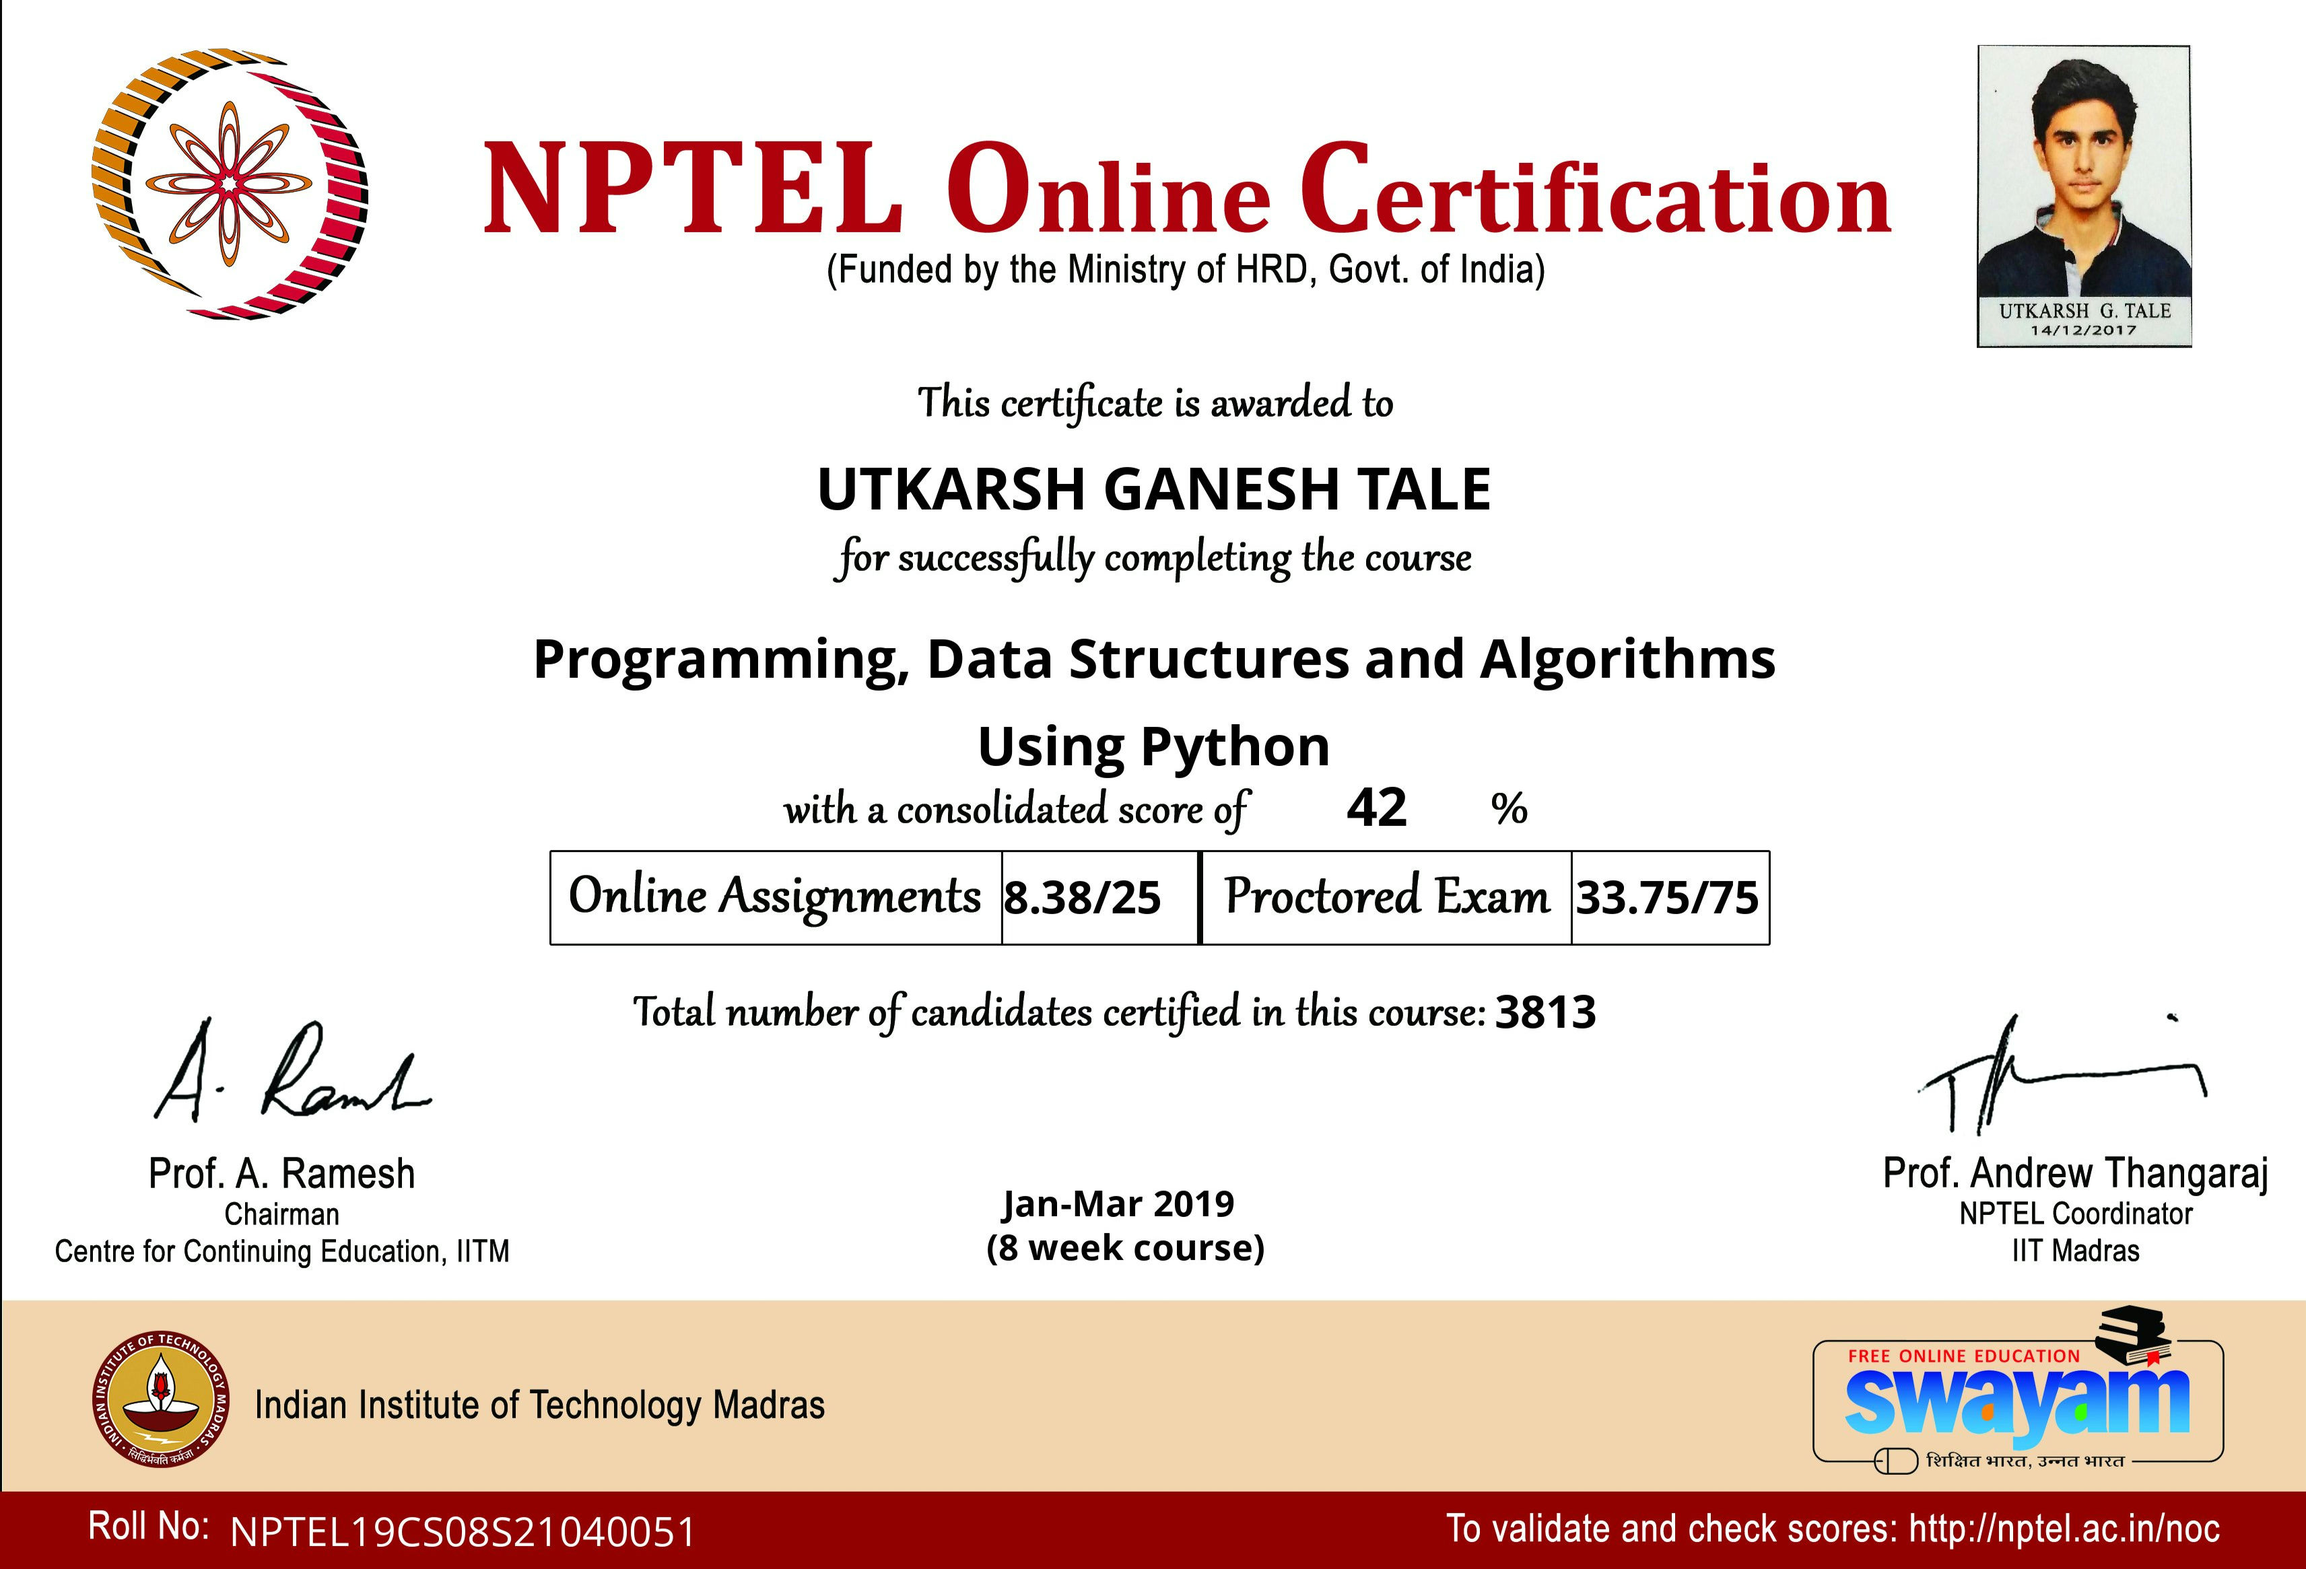
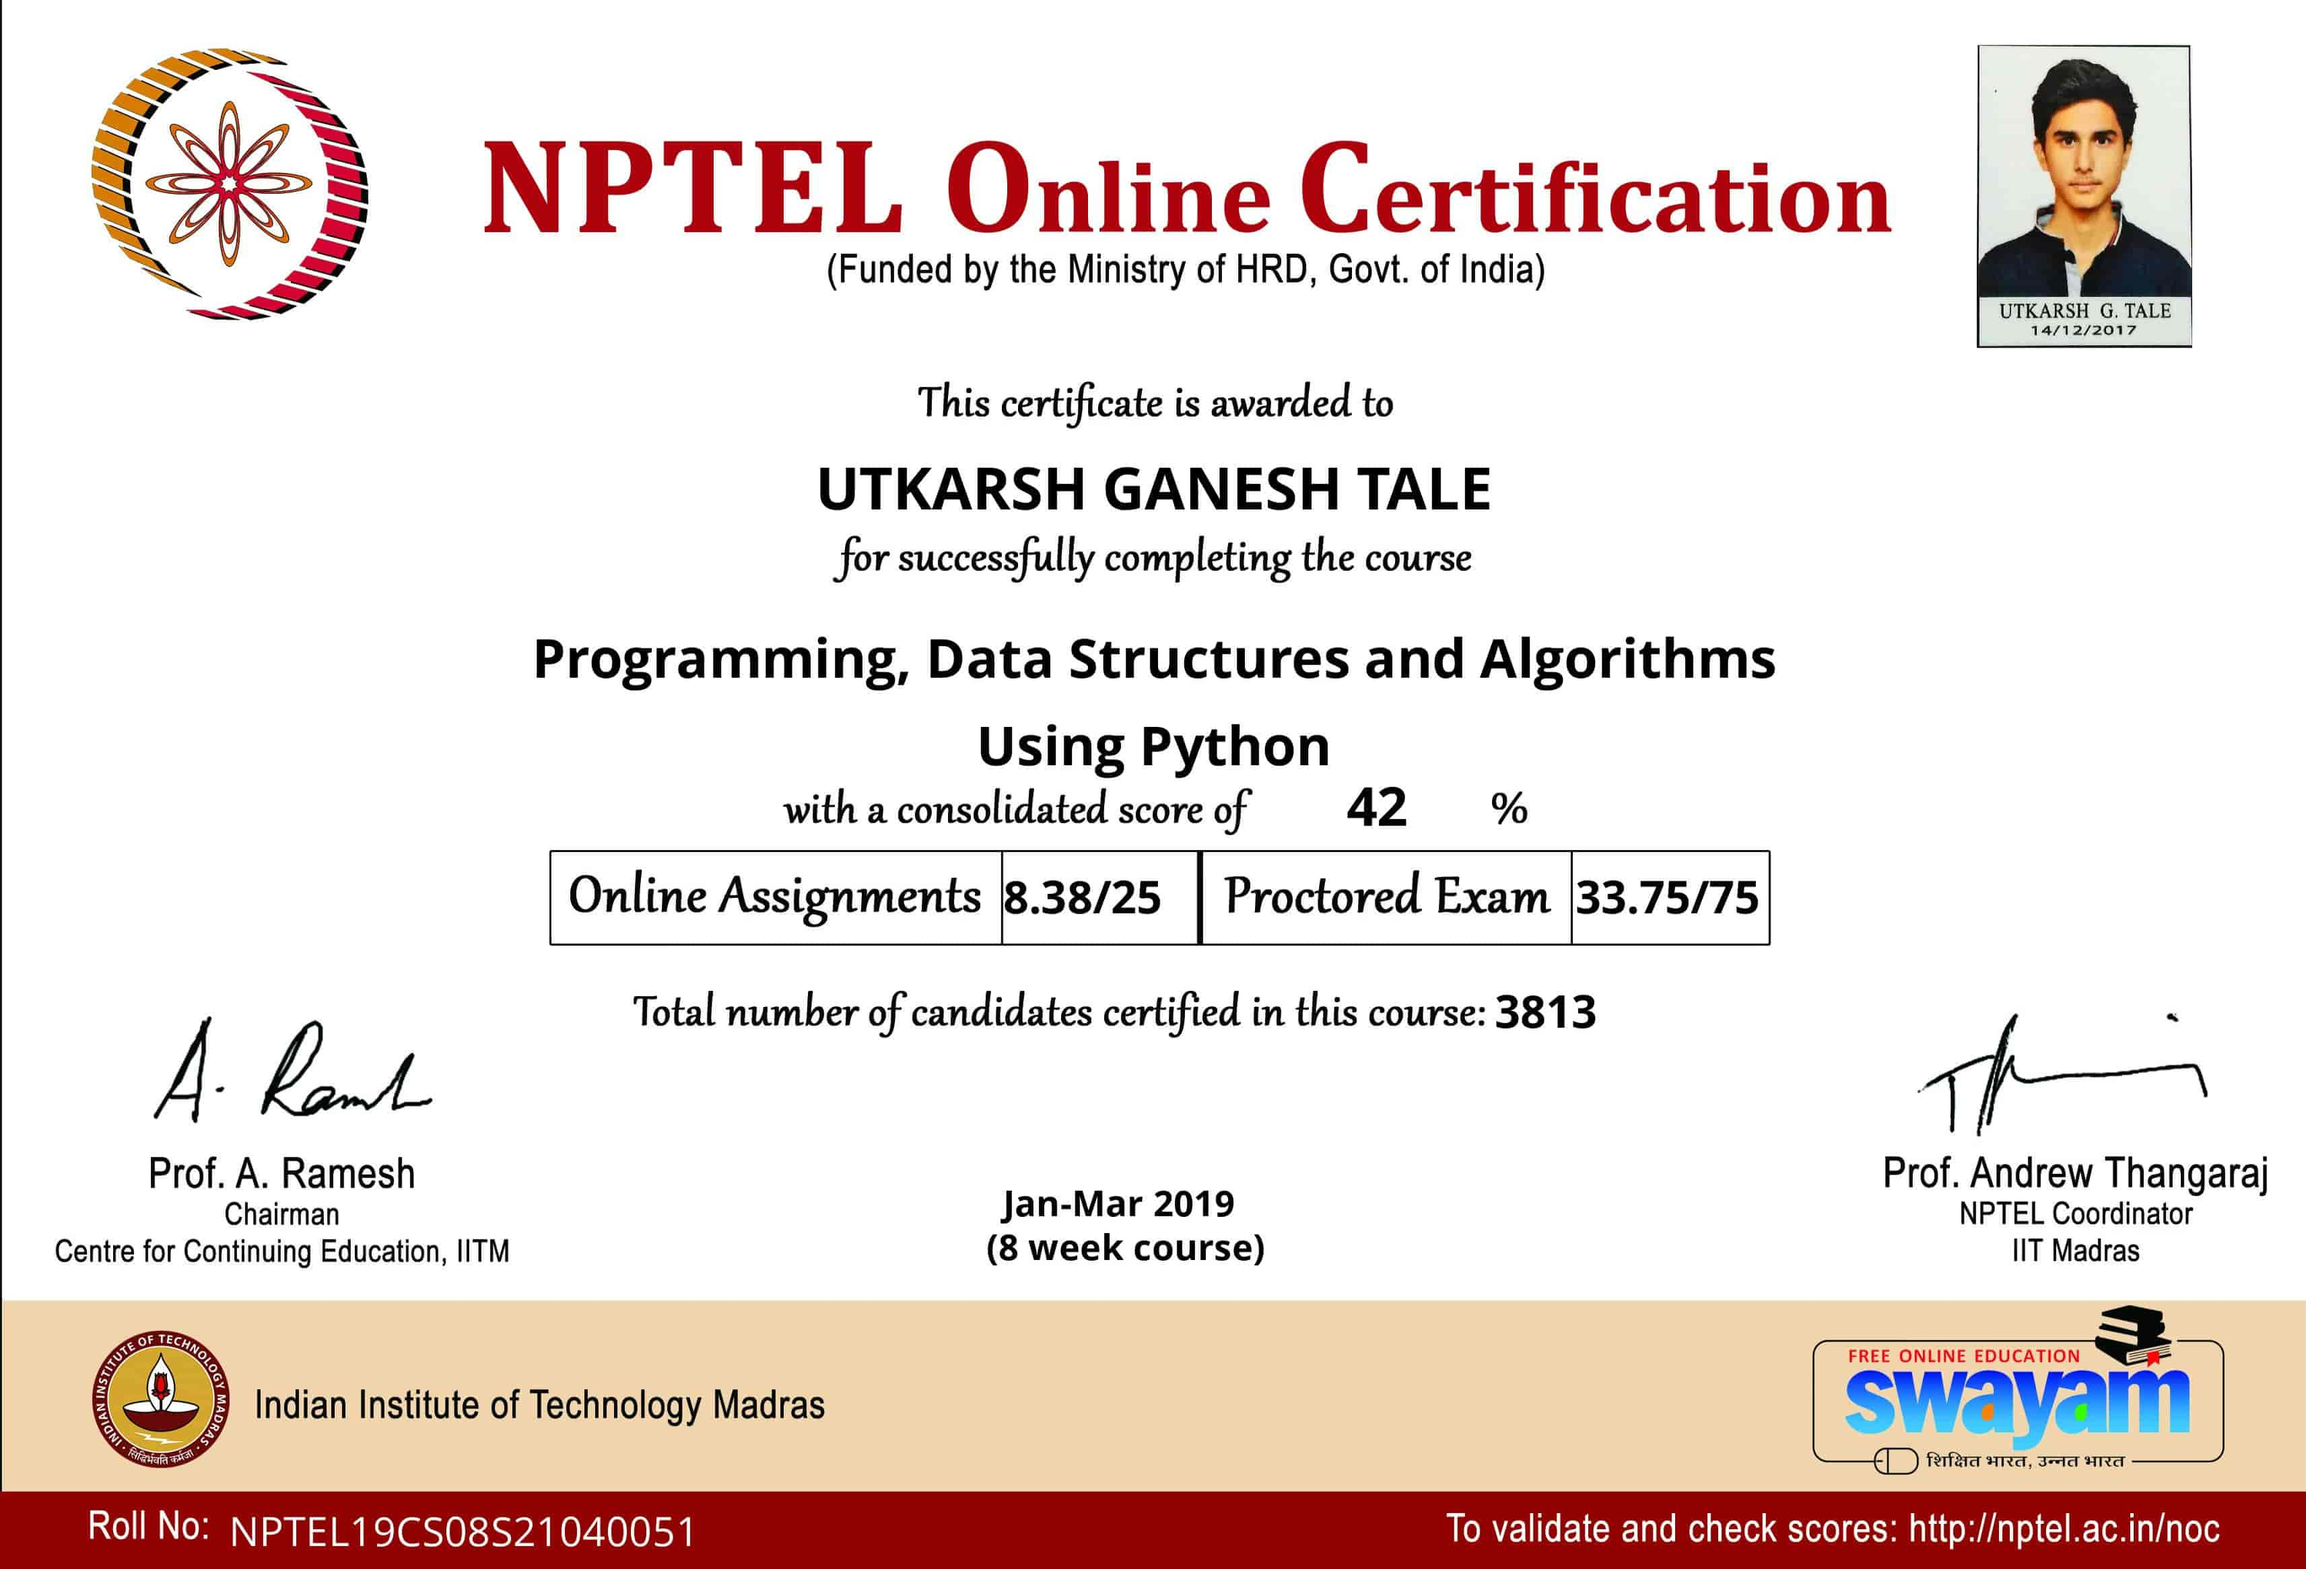
compressed images

diff --git a/src/App.vue b/src/App.vue
@@ -67,7 +67,7 @@ export default {
           title: "Machine Learning Workshop",
           description: "Introduction to Machine Learning and Classical ML Algorithms",
           techstack: ['Python', 'Jupyter'],
-          image: 'wac_workshop.png'
+          image: 'wac_workshop.jpg'
         },
         {
           title: "Programming, DS with Python",
